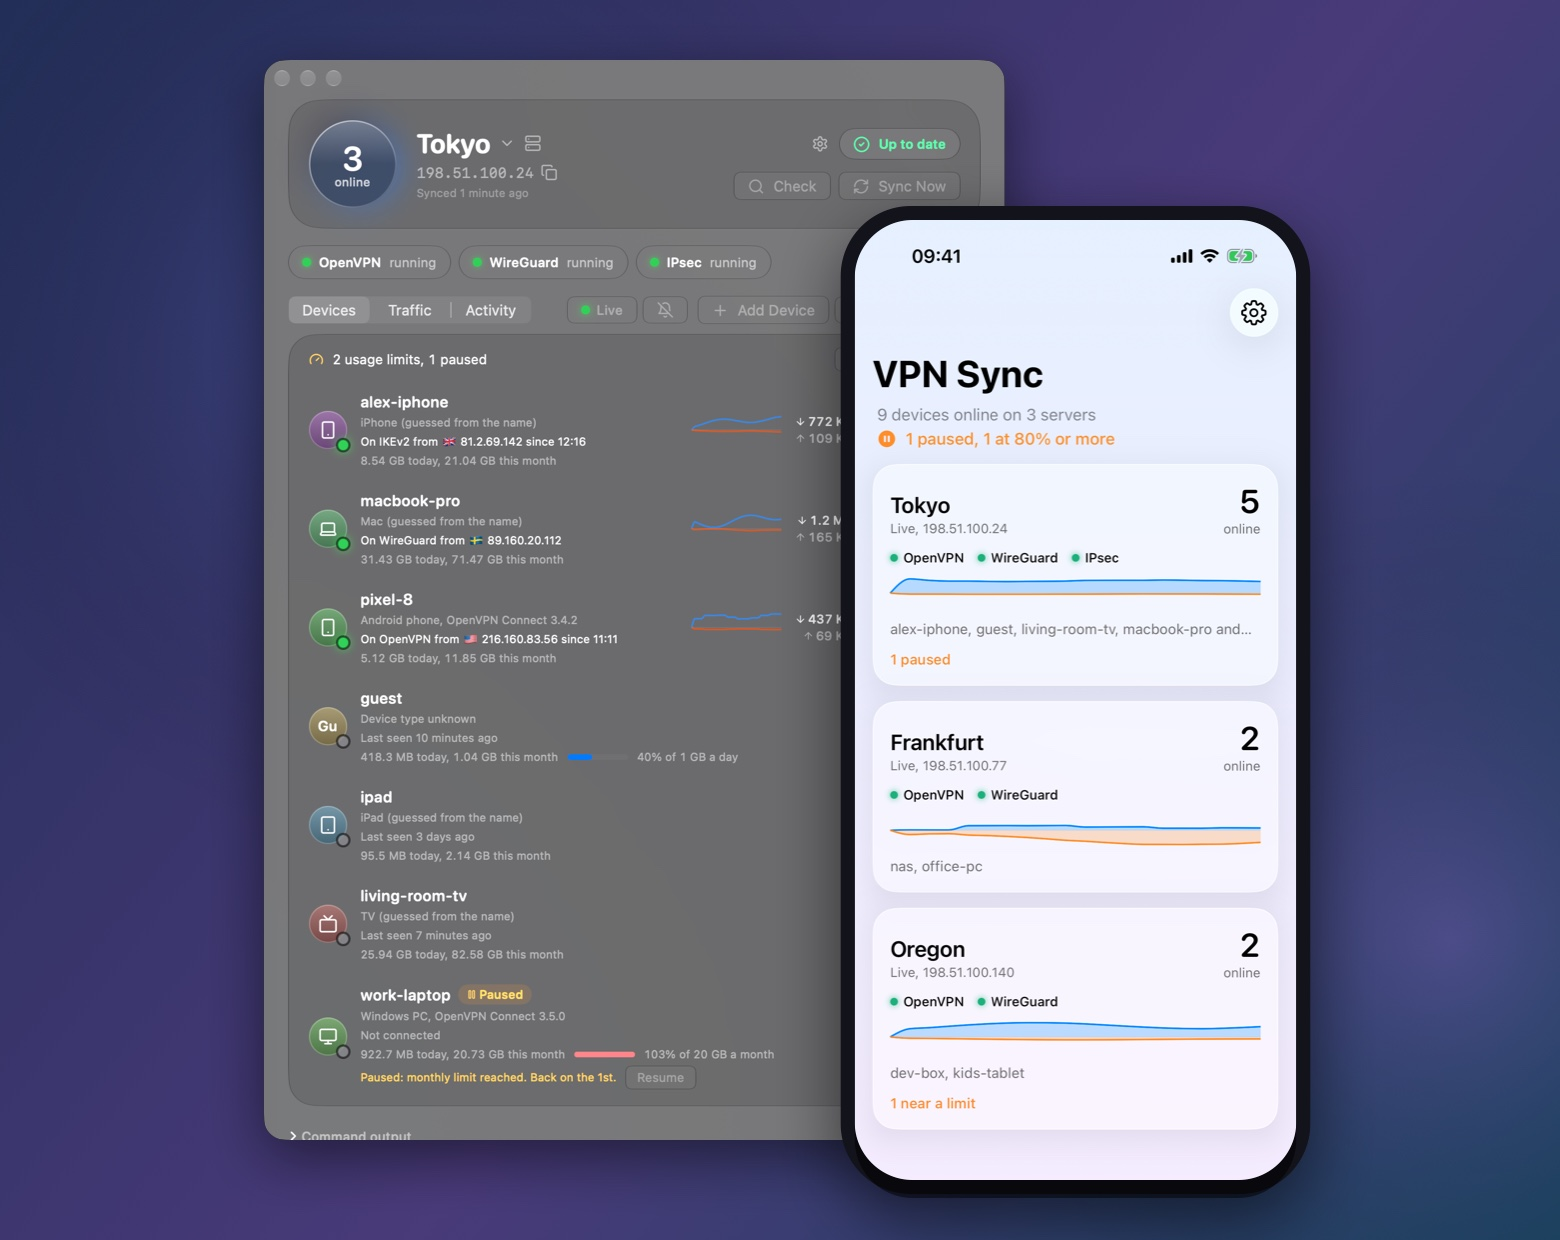
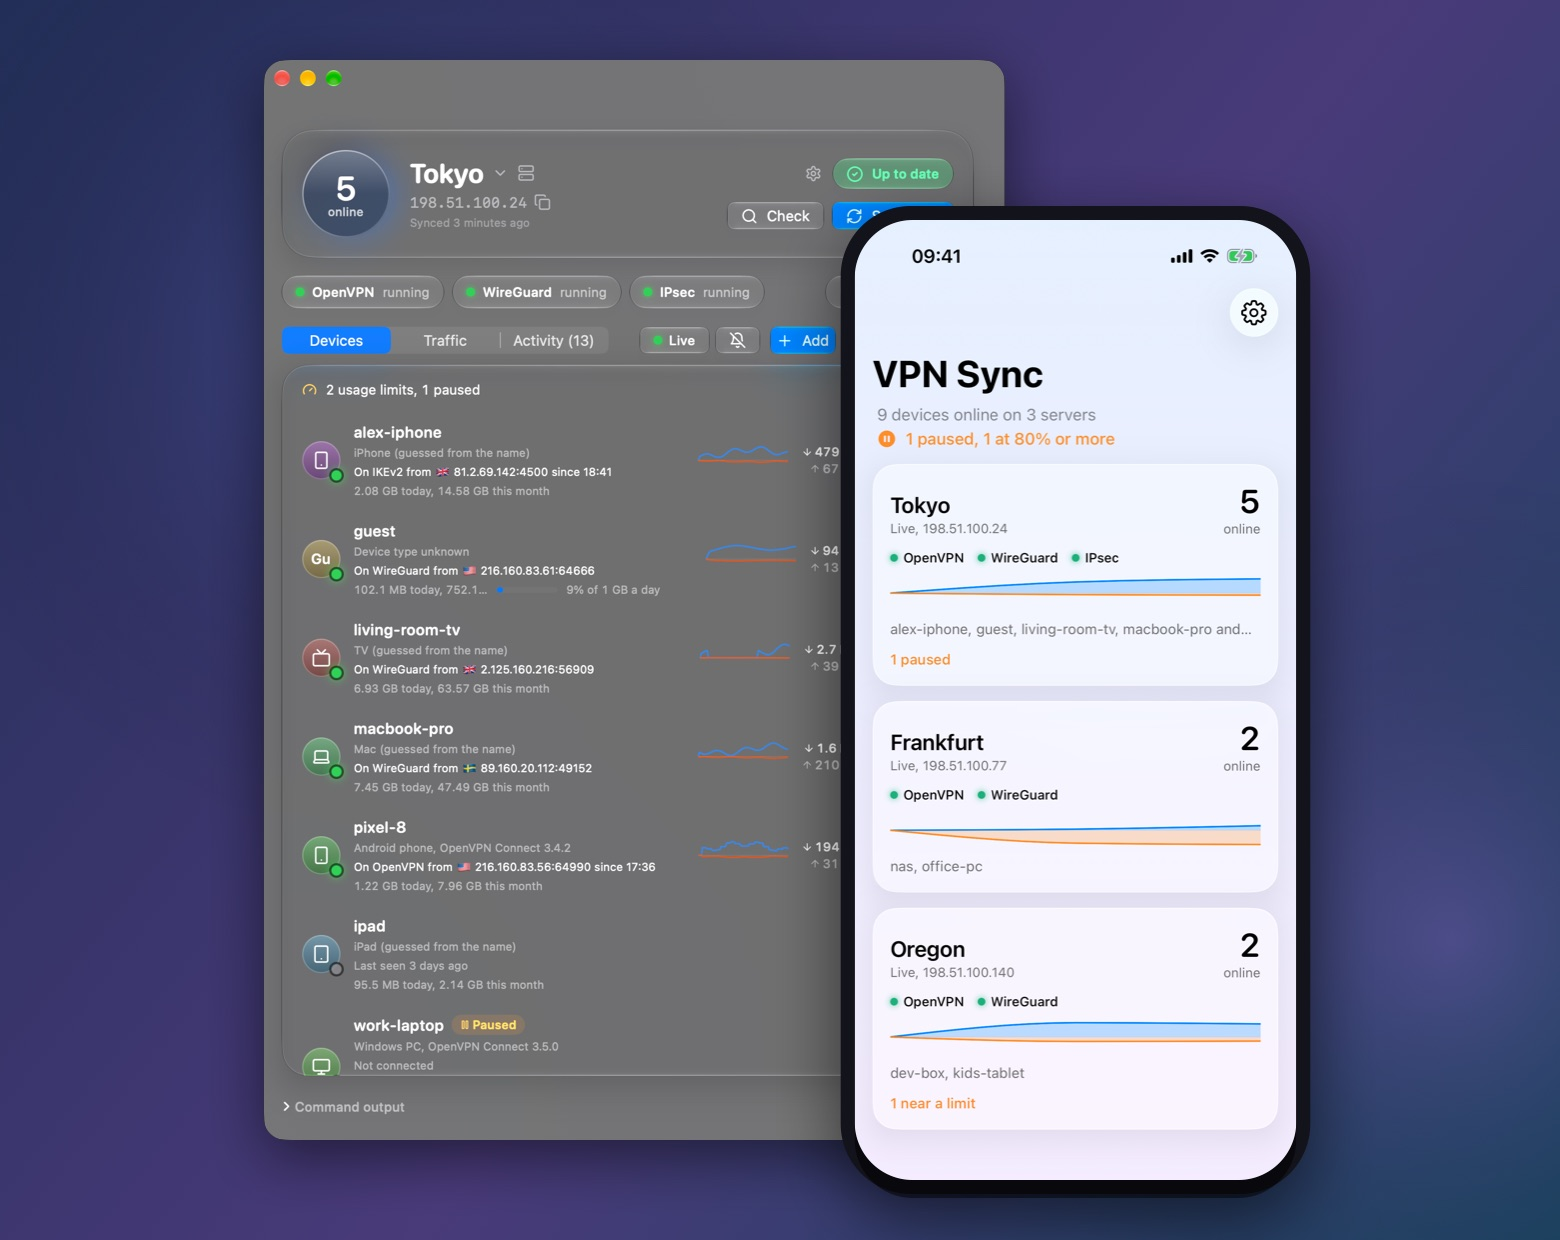
README: new screenshots and GIF; two layout fixes
Screenshots show the ports (services bar, menu bar, device lines), Change Ports, Check's
Sync needed banner, and the iPhone's Check Profiles card, ports and device connection. The
feature list covers Check and the shared SSH connection; the iPhone notes are current.
Mac: a short device list scrolls when a banner makes it too tall instead of pushing the
header out of the window, and Add Device shortens to Add instead of an ellipsis.

diff --git a/app/VPNSync.swift b/app/VPNSync.swift
@@ -1172,8 +1172,14 @@ struct ContentView: View {
             } else {
                 GlassGroup(spacing: 6) {
                     HStack(spacing: 6) {
-                        Button { m.showAddDevice = true } label: { Label("Add Device", lucide: "plus") }
-                            .glassButton(prominent: true)
+                        // the full label when it fits, otherwise "Add" (never squeezed to "…")
+                        ViewThatFits(in: .horizontal) {
+                            Button { m.showAddDevice = true } label: { Label("Add Device", lucide: "plus").fixedSize() }
+                                .glassButton(prominent: true)
+                            Button { m.showAddDevice = true } label: { Label("Add", lucide: "plus").fixedSize() }
+                                .glassButton(prominent: true)
+                                .help("Add Device")
+                        }
                         Button { m.showBatchAdd = true } label: { Label("Batch Add", lucide: "copy-plus") }
                             .labelStyle(.iconOnly).glassButton()
                             .help("Add several devices at once")
@@ -1297,9 +1303,17 @@ struct ContentView: View {
                     }
                     .frame(maxWidth: .infinity, minHeight: 140)
                 } else if visibleRows.count <= 7 {
-                    // A short list hugs its rows instead of leaving an empty glass expanse.
-                    VStack(spacing: 2) { ForEach(visibleRows) { d in DeviceRow(device: d) } }
-                        .padding(6)
+                    // A short list hugs its rows instead of leaving an empty glass expanse, and
+                    // scrolls when it doesn't fit (a banner above, or a short window).
+                    ViewThatFits(in: .vertical) {
+                        VStack(spacing: 2) { ForEach(visibleRows) { d in DeviceRow(device: d) } }
+                            .padding(6)
+                        ScrollView {
+                            VStack(spacing: 2) { ForEach(visibleRows) { d in DeviceRow(device: d) } }
+                                .padding(6)
+                        }
+                        .frame(maxHeight: .infinity)
+                    }
                 } else {
                     ScrollView {
                         LazyVStack(spacing: 2) {

diff --git a/README.md b/README.md
@@ -35,11 +35,12 @@ It can also set up a fresh server for you.
 | **Ports** | The ports each server listens on (OpenVPN, WireGuard, IKEv2, SSH) and the address and port each connected device comes from. Move OpenVPN or WireGuard to another port: the server, its firewall rule, every profile and, on Lightsail, the cloud firewall are changed together. |
 | **Traffic** | Speed over time, data per device and per protocol, the server's traffic per day for a month. |
 | **Usage limits** | A daily or monthly limit per device that alerts you at 80% and 100%, or also pauses it. Pause or resume any device's internet by hand; it stays connected and nothing is revoked. |
-| **Devices and profiles** | Add, batch add, remove and batch remove devices on every VPN at once. WireGuard QR codes for phones and TVs, IKEv2 profiles that install natively on iPhone, Mac, Android and Windows. |
-| **IP changes handled** | Each server rewrites its own profiles when its address changes; the Mac pulls fresh copies, fixes OpenVPN Connect and, with a read-only Lightsail key, finds a stopped-and-started server's new IP on its own. |
+| **Devices and profiles** | Add, batch add, remove and batch remove devices on every VPN at once. WireGuard QR codes for phones and TVs, IKEv2 profiles that install natively on iPhone, Mac, Android and Windows. **Check** compares the server's profiles with your copies and lists what a sync would add, remove or update. |
+| **IP changes handled** | Each server rewrites its own profiles when its address changes; the Mac pulls fresh copies, fixes OpenVPN Connect and, with a Lightsail key, finds a stopped-and-started server's new IP on its own. |
 | **Start and stop servers** | Stop a Lightsail server you don't need and start it again from the Mac, the menu bar or the iPhone; VPN Sync shows it as stopped instead of unreachable, and after a start it finds the new IP and resyncs. |
 | **Install or adopt** | Install OpenVPN and/or WireGuard (Nyr) and optionally IPsec/IKEv2 (hwdsl2, IKEv2-only) with your choice of ports and DNS, or keep what's already there. |
-| **iPhone app** | The same servers on your phone over SSH, without the Mac. Check Profiles says whether the profiles use the server's current IP (and updates them if not) and which devices were added, removed or given new profiles since the last check. |
+| **iPhone app** | The same servers on your phone over SSH, without the Mac: live view, ports, limits, devices and their profiles, services, stop and start. Check Profiles says whether the profiles use the server's current IP (and updates them if not) and which devices were added, removed or given new profiles since the last check. |
+| **Quick from far away** | One SSH connection per server is kept open and shared, so a check, sync or usage report takes about a second even to a server on another continent, and the live view starts in under one. |
 | **Command line** | Everything the apps do, as `vpn-sync` on the Mac and small tools on each server. |
 
 ## Screenshots
@@ -59,16 +60,24 @@ It can also set up a fresh server for you.
   </tr>
   <tr>
     <td>Activity: connects, disconnects and limit events.</td>
-    <td>The menu bar: every server at a glance.</td>
+    <td>The menu bar: every server at a glance, with its ports.</td>
+  </tr>
+  <tr>
+    <td><img src="docs/images/mac-ports.png" alt="Change Ports"></td>
+    <td><img src="docs/images/mac-check.png" alt="Check: what a sync would change"></td>
+  </tr>
+  <tr>
+    <td>Change Ports: move OpenVPN or WireGuard; profiles and the Lightsail firewall follow.</td>
+    <td>Check: what a sync would add, remove or update.</td>
   </tr>
 </table>
 
 <p align="center">
   <img src="docs/images/iphone-tour.gif" alt="The iPhone app" width="300">
   &nbsp;&nbsp;
-  <img src="docs/images/iphone-servers.png" alt="iPhone: servers" width="260">
+  <img src="docs/images/iphone-server.png" alt="iPhone: a server with its check and ports" width="260">
   &nbsp;&nbsp;
-  <img src="docs/images/iphone-device.png" alt="iPhone: a device" width="260">
+  <img src="docs/images/iphone-device.png" alt="iPhone: a device and its connection" width="260">
 </p>
 
 <sub>Screenshots use made-up servers and devices (`demo/`); no real addresses.</sub>

diff --git a/docs/ios-app.md b/docs/ios-app.md
@@ -9,20 +9,27 @@ the phone to a VPN stays in the WireGuard / OpenVPN apps and iOS Settings (IKEv2
 - **Servers:** every imported server with its services (OpenVPN, WireGuard, IPsec), how many
   devices are online, a 15-minute speed sparkline and limit attention (paused / near a limit).
 - **Server:** Devices · Traffic · Activity, like the Mac.
-  - Devices: who's online (live, from `vpn-status --watch`), how and from where, speed, usage
-    today / this month, the limit meter, Paused badge.
-  - Device sheet: Pause/Resume Internet, Set/Edit/Remove Usage Limit, profiles (WireGuard QR
+  - Above the tabs: the server's ports (OpenVPN, WireGuard, IKEv2, SSH) and the Check Profiles
+    card: whether the profiles use the server's current IP (Update Profiles runs
+    `vpn-endpoint-sync`), and the devices added, removed or given new profiles since the last
+    check (from `vpn-export-profiles --hashes`; the fingerprints are kept on the phone).
+  - Devices: who's online (live, from `vpn-status --watch`), how and from where (address and
+    port), speed, usage today / this month, the limit meter, Paused badge.
+  - Device sheet: its connection on each VPN (the server port, its own address and port, its VPN
+    address), Pause/Resume Internet, Set/Edit/Remove Usage Limit, profiles (WireGuard QR
     full screen; share or save the `.conf`, `.ovpn`, `.mobileconfig`, `.sswan`, `.p12`),
     Remove Device (confirm).
   - Traffic: speed chart (download above, upload below), today's VPN data, server traffic per
     day (vnstat), data per device this month (server-side counts).
   - Activity: connects/disconnects and limit events while the app is open.
-  - Toolbar: Add Device; services menu (start/stop/restart each VPN, reboot, with confirmation).
+  - Toolbar: Add Device; services menu (start/stop/restart each VPN, reboot, with confirmation;
+    Stop/Start Server on Lightsail when the export included the Lightsail key).
 - **Settings:** import servers, Face ID lock (on by default), warning level, remove a server.
 
 Not in v1: background notifications (iOS gives no background time for a live SSH stream),
-setting up new servers (`server install`), adding servers by hand, Lightsail IP lookup (the
-phone uses the last known IP, then the jump server; a Mac sync updates it).
+setting up new servers (`server install`), changing ports, adding servers by hand. With the
+Lightsail key the phone finds a stopped-and-started server's new IP itself; without it, a check
+or a Mac sync updates it.
 
 ## Connection
 
@@ -31,13 +38,14 @@ phone uses the last known IP, then the jump server; a Mac sync updates it).
   what both servers use; anything else is reported as unsupported.
 - **Host keys are pinned:** the import carries each server's pinned key from
   `~/.config/vpn-sync/known_hosts`; a different key refuses the connection.
-- **Order:** last known IP, the configured host, then through the jump server (a direct-tcpip
-  channel to the private IP, with a second SSH session inside it).
+- **Order:** through the jump server first when the server has one (a direct-tcpip channel to the
+  private IP, with a second SSH session inside it), then the last known IP, then the configured
+  host. One connection per server is shared by the live stream and every command.
 - **Commands:** exactly the Mac CLI's remote commands, with `sudo -n` when the user isn't root:
   `vpn-status --watch 3` (one stream per server while the app is open), `vpn-usage report |
   limit | pause | resume`, `vpn-service`, `vpn-add-client`, `vpn-remove-client`,
-  `vpn-endpoint-sync`, and `vpn-export-profiles --device NAME` (new: one device's files as an
-  uncompressed tar).
+  `vpn-endpoint-sync [--dry-run]`, `vpn-export-profiles --device NAME` (one device's files as an
+  uncompressed tar) and `vpn-export-profiles --hashes`.
 
 ## Getting servers onto the phone
 
